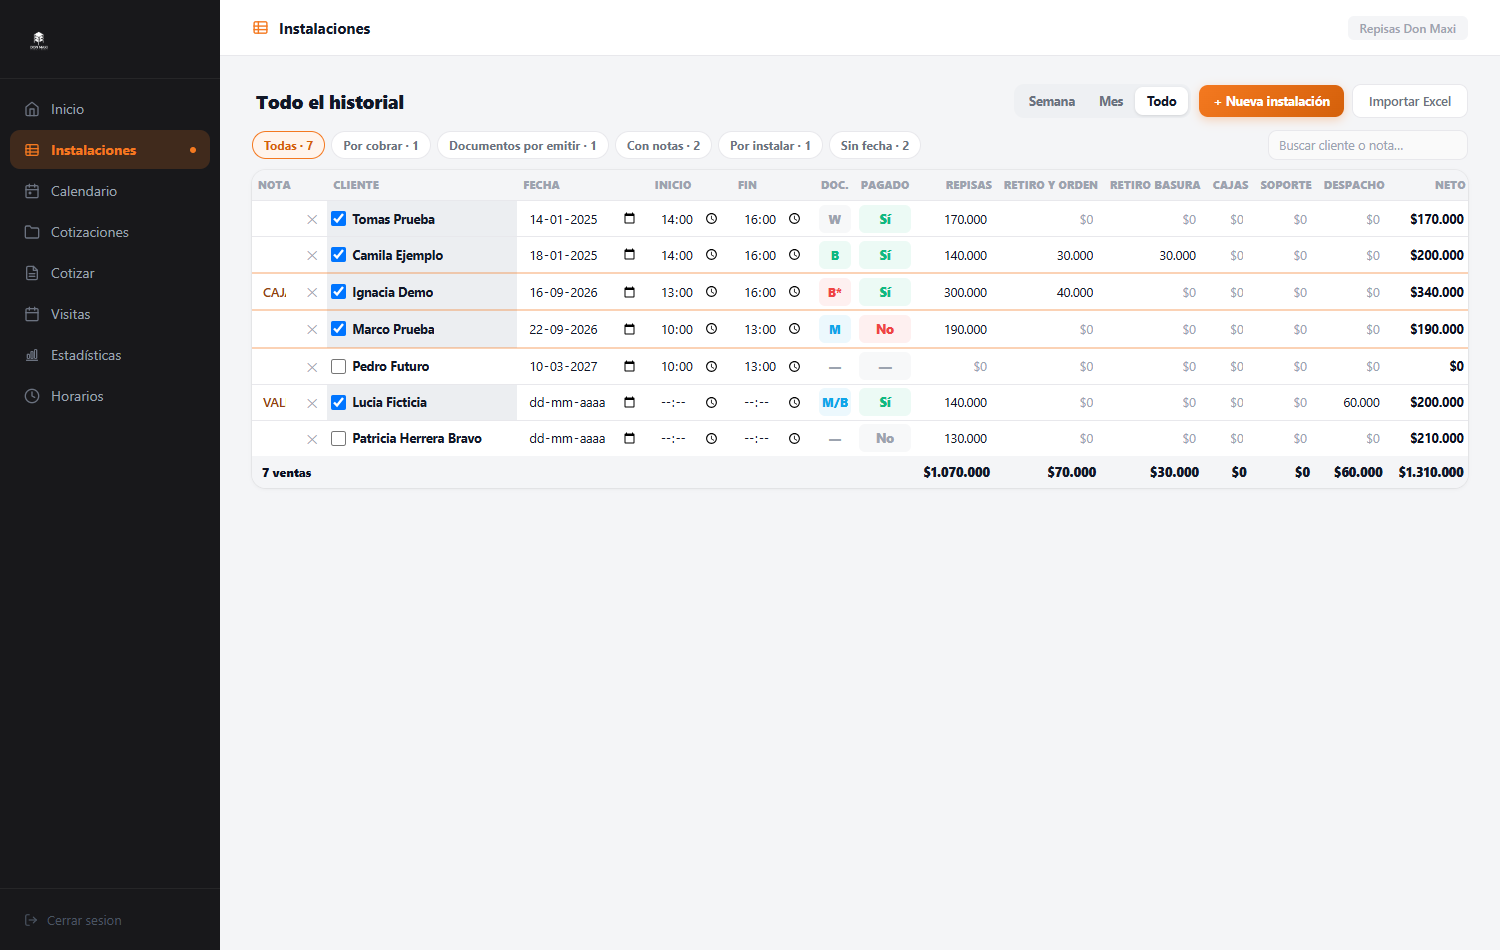
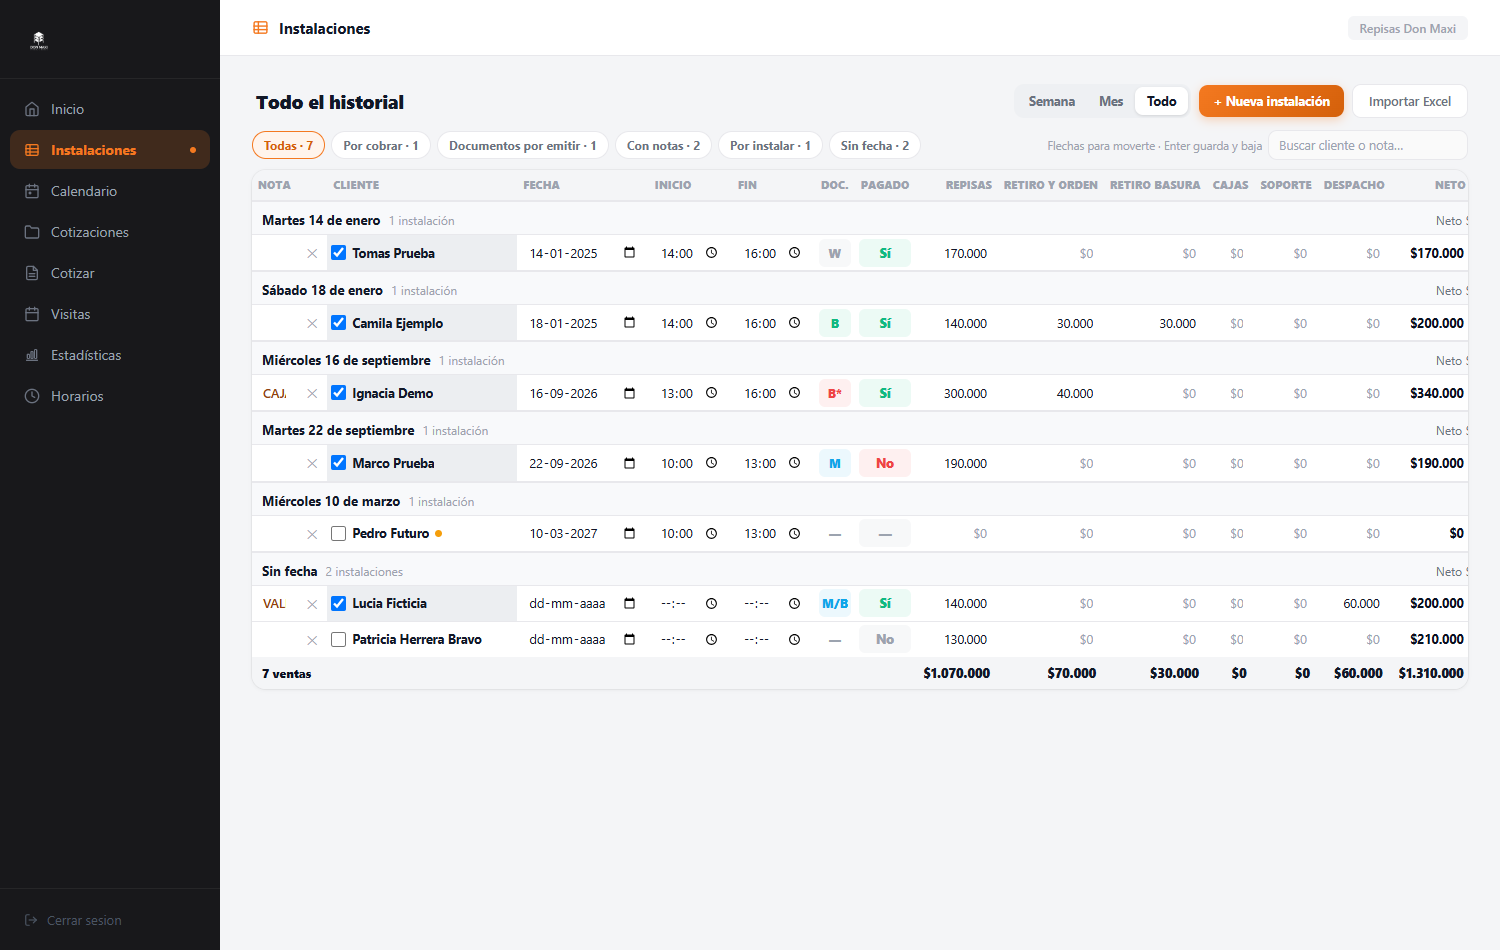
Planilla agrupada por dia y sin "Pasar al calendario"
- Encabezado por cada dia con instalaciones (nombre del dia, cantidad y totales); reemplaza los separadores de semana. Las flechas saltan los encabezados.
- Se quita "Pasar al calendario" (UI, accion del servidor, ayudas locales y pruebas).

diff --git a/src/admin/Planilla.jsx b/src/admin/Planilla.jsx
@@ -1,5 +1,5 @@
 import React, { useCallback, useEffect, useMemo, useRef, useState } from 'react'
-import { C, adminFetch, apiFetch, fmt, styles } from './utils.js'
+import { C, apiFetch, fmt, styles } from './utils.js'
 import { ahoraEnZona, diaSemana, sumarDias } from '../../netlify/functions/lib/horarios.mjs'
 import { SERVICIOS } from '../../netlify/functions/lib/marca.mjs'
 import { CODIGOS_DOCUMENTO, porEmitir, sugerirDocumento } from '../../netlify/functions/lib/documentos.mjs'
@@ -21,6 +21,35 @@ const MESES = ['ene', 'feb', 'mar', 'abr', 'may', 'jun', 'jul', 'ago', 'sep', 'o
 const fechaCorta = f => (f ? `${DIAS_CORTOS[diaSemana(f)]} ${Number(f.slice(8, 10))} ${MESES[Number(f.slice(5, 7)) - 1]}` : 'Sin fecha')
 const tituloMes = m => { const t = new Intl.DateTimeFormat('es-CL', { month: 'long', year: 'numeric', timeZone: 'UTC' }).format(new Date(m + '-15T12:00:00Z')); return t.charAt(0).toUpperCase() + t.slice(1) }
 const lunes = f => sumarDias(f, -((diaSemana(f) + 6) % 7))
+const DIAS_LARGOS = ['Domingo', 'Lunes', 'Martes', 'Miércoles', 'Jueves', 'Viernes', 'Sábado']
+const MESES_LARGOS = ['enero', 'febrero', 'marzo', 'abril', 'mayo', 'junio', 'julio', 'agosto', 'septiembre', 'octubre', 'noviembre', 'diciembre']
+const tituloDia = f => (f ? `${DIAS_LARGOS[diaSemana(f)]} ${Number(f.slice(8, 10))} de ${MESES_LARGOS[Number(f.slice(5, 7)) - 1]}` : 'Sin fecha')
+
+// Las filas agrupadas por dia, en orden: solo los dias que tienen instalaciones.
+function porDia(filas) {
+  const dias = []
+  for (const f of filas) {
+    if (dias.at(-1)?.fecha !== f.fecha) dias.push({ fecha: f.fecha, filas: [] })
+    dias.at(-1).filas.push(f)
+  }
+  return dias
+}
+
+// Encabezado de cada dia: nombre, cuantas instalaciones y lo que suman.
+function EncabezadoDia({ dia, hoy }) {
+  const neto = dia.filas.reduce((s, f) => s + (f.montos.neto || 0), 0), bruto = dia.filas.reduce((s, f) => s + (f.montos.bruto || 0), 0)
+  const n = dia.filas.length
+  return (
+    <div style={{ display: 'flex', justifyContent: 'space-between', alignItems: 'baseline', gap: 10, flexWrap: 'wrap' }}>
+      <span>
+        <strong style={{ fontSize: 13, color: dia.fecha === hoy ? C.orangeDark : C.text }}>{tituloDia(dia.fecha)}</strong>
+        {dia.fecha === hoy && <span style={{ ...styles.badge(C.orange), marginLeft: 8, padding: '1px 8px', fontSize: 10 }}>Hoy</span>}
+        <span style={{ marginLeft: 8, fontSize: 12, color: C.textMuted }}>{n} {n === 1 ? 'instalación' : 'instalaciones'}</span>
+      </span>
+      {bruto > 0 && <span style={{ fontSize: 12, color: C.textSub }}>Neto {fmt(neto)} · <strong style={{ color: C.orangeDark }}>{fmt(bruto)}</strong></span>}
+    </div>
+  )
+}
 
 // Montos de una venta por columna, como en el Excel.
 function columnas(q) {
@@ -280,105 +309,6 @@ function Detalle({ q, onCerrar, onActualizar, onCambioLocal, onVerCotizacion }) 
   )
 }
 
-// ── Pasar el periodo al calendario ───────────────────────────────────────────
-// Primero muestra que va a hacer con cada instalacion (ya esta, se enlaza a un evento con su nombre,
-// se mueve a su hora o se crea) y al confirmar lo hace fila por fila, con avance.
-const ACCIONES = {
-  ok: ['Ya están en el calendario', C.green],
-  mover: ['Se corrige la hora de su evento', C.blue],
-  enlazar: ['Se enlazan con el evento que ya tienen', '#0EA5E9'],
-  crear: ['Se crea su evento', C.orange],
-  sinhora: ['Sin horas: no se pueden agendar', C.textMuted],
-}
-function PasarAlCalendario({ filas, rango, titulo, onCerrar, onListo }) {
-  const [plan, setPlan] = useState(null)
-  const [error, setError] = useState('')
-  const [hechas, setHechas] = useState(null) // null: revisando | numero: avanzando
-  const [fallas, setFallas] = useState([])
-  const [pausa, setPausa] = useState(0)
-  useEffect(() => {
-    apiFetch(`/.netlify/functions/calendario?desde=${rango[0]}&hasta=${rango[1]}`).then(r => {
-      if (!r.ok) throw new Error(r.error || 'No se pudo leer el calendario')
-      const eventos = r.eventos.filter(e => e.tipo !== 'visita')
-      setPlan(filas.filter(f => f.fecha).map(f => {
-        const { inicio, fin, eventId } = f.inst
-        if (!inicio || !fin) return { f, accion: 'sinhora' }
-        if (eventId) {
-          const ev = eventos.find(e => e.id === eventId)
-          return { f, accion: ev && ev.fecha === f.fecha && ev.inicio === inicio && ev.fin === fin ? 'ok' : 'mover' }
-        }
-        const ev = eventos.find(e => e.fecha === f.fecha && (String(e.cotNum || '') === String(f.q.cotNum) || mismoNombre(f.q.nombre, sinPrefijo(e.cliente || e.titulo))))
-        return ev ? { f, accion: 'enlazar', evento: ev.titulo } : { f, accion: 'crear' }
-      }))
-    }).catch(e => setError(e.message))
-  }, [])
-  const pendientes = (plan || []).filter(p => ['mover', 'enlazar', 'crear'].includes(p.accion))
-  // Por bloques de 6: una lectura de la planilla por bloque. Si Google pide una pausa (limite de
-  // lecturas por minuto), se espera lo que dice y se reintenta el mismo bloque.
-  async function hacer() {
-    setHechas(0)
-    const errores = []
-    for (let i = 0; i < pendientes.length; i += 6) {
-      const bloque = pendientes.slice(i, i + 6)
-      for (let intento = 0; ; intento++) {
-        let res, r
-        try {
-          res = await adminFetch(API, { method: 'POST', body: JSON.stringify({ accion: 'sincronizar', cotNums: bloque.map(p => p.f.q.cotNum) }) })
-          r = await res.json().catch(() => ({}))
-        } catch (e) { r = { error: e.message } }
-        if (res?.status === 429 && intento < 5) {
-          for (let s = r.reintentarEn || 30; s > 0; s--) { setPausa(s); await new Promise(ok => setTimeout(ok, 1000)) }
-          setPausa(0)
-          continue
-        }
-        if (r.ok) errores.push(...(r.errores || []))
-        else errores.push(...bloque.map(p => `${p.f.q.nombre}: ${r.error || 'No se pudo'}`))
-        break
-      }
-      setHechas(n => n + bloque.length)
-    }
-    setFallas(errores)
-    if (!errores.length) onListo()
-  }
-  const terminado = hechas !== null && hechas >= pendientes.length
-  return (
-    <div role="dialog" aria-modal="true" aria-label="Pasar al calendario" onClick={e => e.target === e.currentTarget && hechas === null && onCerrar()}
-      style={{ position: 'fixed', inset: 0, zIndex: 210, background: 'rgba(17,24,39,.4)', display: 'grid', placeItems: 'center', padding: 16 }}>
-      <div data-testid="pasar-calendario" style={{ ...styles.card, width: 'min(620px, 100%)', maxHeight: '88vh', overflowY: 'auto' }}>
-        <h3 style={{ margin: '0 0 6px', fontSize: 17 }}>Pasar {titulo.toLowerCase()} al calendario</h3>
-        <p style={{ fontSize: 13, color: C.textSub, marginTop: 0 }}>Cada instalación queda con su evento en el calendario del negocio, a la hora de la planilla. Los eventos que ya existen con el nombre del cliente se enlazan: no se duplican.</p>
-        {error && <div style={styles.errorBox}>{error}</div>}
-        {!plan && !error && <div style={styles.empty}>Revisando el calendario…</div>}
-        {plan && Object.entries(ACCIONES).map(([accion, [texto, color]]) => {
-          const grupo = plan.filter(p => p.accion === accion)
-          if (!grupo.length) return null
-          return (
-            <details key={accion} open={accion === 'enlazar' || accion === 'crear'} style={{ marginBottom: 8 }}>
-              <summary style={{ cursor: 'pointer', fontSize: 13.5, fontWeight: 700, color }}>{texto} · {grupo.length}</summary>
-              <div style={{ fontSize: 12.5, color: C.textSub, padding: '4px 0 0 14px', display: 'grid', gap: 2 }}>
-                {grupo.map(p => <div key={p.f.q.cotNum}>{fechaCorta(p.f.fecha)} {p.f.inst.inicio ? `${p.f.inst.inicio}–${p.f.inst.fin}` : ''} · <strong>{p.f.q.nombre}</strong>{p.evento ? <span style={{ color: C.textMuted }}> → “{p.evento}”</span> : ''}</div>)}
-              </div>
-            </details>
-          )
-        })}
-        {hechas !== null && (
-          <div style={{ margin: '10px 0' }}>
-            <div style={{ height: 8, borderRadius: 99, background: C.border, overflow: 'hidden' }}><div style={{ width: `${pendientes.length ? hechas * 100 / pendientes.length : 100}%`, height: '100%', background: C.green, transition: 'width .2s' }} /></div>
-            <div style={{ fontSize: 12.5, color: C.textSub, marginTop: 4 }}>{terminado ? `✓ Listo: ${hechas - fallas.length} de ${pendientes.length}` : pausa ? `Google pidió una pausa: sigo en ${pausa} s…` : `Agendando ${hechas} de ${pendientes.length}…`}</div>
-          </div>
-        )}
-        {fallas.length > 0 && <div style={styles.errorBox}>No se pudieron agendar:<br />{fallas.join(' · ')}</div>}
-        <div style={{ display: 'flex', gap: 8, justifyContent: 'flex-end', marginTop: 8 }}>
-          {hechas === null
-            ? <><button onClick={onCerrar} style={styles.btnSecondary}>Cancelar</button>
-              <button onClick={hacer} disabled={!plan || !pendientes.length} style={{ ...styles.btnPrimary, opacity: plan && pendientes.length ? 1 : .5 }}>{plan && !pendientes.length ? 'Todo está al día' : `Hacer ${pendientes.length} cambios`}</button></>
-            : terminado && <button onClick={onListo} style={styles.btnPrimary}>Cerrar</button>}
-        </div>
-      </div>
-    </div>
-  )
-}
-
 // ── Nueva instalacion ────────────────────────────────────────────────────────
 
 function NuevaInstalacion({ onCrear, onCancelar }) {
@@ -434,8 +364,8 @@ function moverConTeclado(e) {
   const filas = Array.from(cuerpo.rows)
   let f = filas.indexOf(tr), c = Array.from(tr.cells).indexOf(td), destino = null
   if (df) {
-    // Misma columna en la fila de arriba o abajo.
-    f += df
+    // Misma columna en la fila de arriba o abajo, saltando los encabezados de cada dia.
+    do { f += df } while (filas[f]?.hasAttribute('data-dia'))
     destino = filas[f] && editableDe(filas[f].cells[c])
   } else {
     // La siguiente celda editable de la misma fila.
@@ -471,7 +401,6 @@ export default function PlanillaSection({ onVerCotizacion }) {
   const [detalle, setDetalle] = useState(null)
   const [nueva, setNueva] = useState(false)
   const [importar, setImportar] = useState(false)
-  const [pasar, setPasar] = useState(false)
 
   const cargar = useCallback(async () => {
     setCargando(true); setError('')
@@ -555,7 +484,6 @@ export default function PlanillaSection({ onVerCotizacion }) {
             {[['semana', 'Semana'], ['mes', 'Mes'], ['todo', 'Todo']].map(([k, n]) => <button key={k} role="tab" aria-selected={periodo === k} onClick={() => setPeriodo(k)} style={segmento(periodo === k)}>{n}</button>)}
           </div>
           <button onClick={() => setNueva(v => !v)} style={{ ...styles.btnPrimary, fontSize: 12.5, padding: '8px 14px' }}>+ Nueva instalación</button>
-          {periodo !== 'todo' && <button onClick={() => setPasar(true)} style={{ ...styles.btnSecondary, fontSize: 12.5 }}>Pasar al calendario</button>}
           <button onClick={() => setImportar(true)} style={{ ...styles.btnSecondary, fontSize: 12.5 }}>Importar Excel</button>
         </div>
       </div>
@@ -580,7 +508,10 @@ export default function PlanillaSection({ onVerCotizacion }) {
 
       {visibles.length > 0 && (movil ? (
         <div style={{ display: 'grid', gap: 8 }}>
-          {visibles.map(f => (
+          {porDia(visibles).map(dia => (
+            <React.Fragment key={'dia' + dia.fecha}>
+            <div data-testid="encabezado-dia" style={{ padding: '10px 4px 0' }}><EncabezadoDia dia={dia} hoy={hoy} /></div>
+            {dia.filas.map(f => (
             <div key={f.q.cotNum} data-testid="fila-planilla" onClick={() => setDetalle(f.q.cotNum)}
               style={{ ...styles.card, padding: 12, cursor: 'pointer', borderLeft: '4px solid ' + (f.instalada ? C.green : f.atrasada ? C.yellow : C.border), background: f.instalada ? '#F6F7F9' : 'white' }}>
               <div style={{ display: 'flex', justifyContent: 'space-between', gap: 8, alignItems: 'center' }}>
@@ -597,6 +528,8 @@ export default function PlanillaSection({ onVerCotizacion }) {
               {f.inst.nota && <div style={{ fontSize: 12, color: '#92400E', marginTop: 4 }}>📝 {f.inst.nota}</div>}
               {f.porCobrar && <a onClick={e => e.stopPropagation()} href={linkCobro(f.q)} target="_blank" rel="noreferrer" style={{ display: 'inline-block', marginTop: 6, fontSize: 12, fontWeight: 700, color: '#128C7E' }}>💬 Cobrar {fmt(f.pago.saldo)}</a>}
             </div>
+            ))}
+            </React.Fragment>
           ))}
         </div>
       ) : (
@@ -612,9 +545,13 @@ export default function PlanillaSection({ onVerCotizacion }) {
               </tr>
             </thead>
             <tbody>
-              {visibles.map((f, i) => {
-                const q = f.q, nuevaSemana = i > 0 && f.fecha && visibles[i - 1].fecha && lunes(f.fecha) !== lunes(visibles[i - 1].fecha)
-                const td = { padding: '2px 4px', borderTop: (nuevaSemana ? '2px solid ' : '1px solid ') + (nuevaSemana ? C.orange + '55' : C.border), verticalAlign: 'middle' }
+              {porDia(visibles).map(dia => [
+                <tr key={'dia' + dia.fecha} data-dia={dia.fecha || 'sin-fecha'} data-testid="encabezado-dia">
+                  <td colSpan={13 + SERV.length} style={{ padding: '9px 10px 6px', background: '#F8F9FB', borderTop: '2px solid ' + C.border }}><EncabezadoDia dia={dia} hoy={hoy} /></td>
+                </tr>,
+                ...dia.filas.map(f => {
+                const q = f.q
+                const td = { padding: '2px 4px', borderTop: '1px solid ' + C.border, verticalAlign: 'middle' }
                 return (
                   <tr key={q.cotNum} data-testid="fila-planilla" data-cot={q.cotNum}>
                     <td style={{ ...td, width: 170 }}><Celda valor={f.inst.nota} etiqueta={`Nota de ${q.nombre}`} placeholder="" alGuardar={v => actualizar(q.cotNum, { nota: v })} estilo={{ color: '#92400E', fontWeight: 600 }} /></td>
@@ -645,7 +582,8 @@ export default function PlanillaSection({ onVerCotizacion }) {
                     </td>
                   </tr>
                 )
-              })}
+                }),
+              ])}
             </tbody>
             <tfoot>
               <tr style={{ background: '#F4F5F7', fontWeight: 800 }}>
@@ -659,7 +597,6 @@ export default function PlanillaSection({ onVerCotizacion }) {
       ))}
 
       {abierta && <Detalle q={abierta} onCerrar={() => setDetalle(null)} onActualizar={c => actualizar(abierta.cotNum, c)} onCambioLocal={c => reemplazar({ cotNum: abierta.cotNum, ...c })} onVerCotizacion={onVerCotizacion} />}
-      {pasar && rango && <PasarAlCalendario titulo={titulo} rango={rango} filas={filas.filter(f => f.fecha >= rango[0] && f.fecha <= rango[1])} onCerrar={() => setPasar(false)} onListo={() => { setPasar(false); cargar() }} />}
       {importar && <ImportarExcel onCerrar={() => setImportar(false)} onListo={() => { setImportar(false); setPeriodo('todo'); cargar() }} />}
     </div>
   )
